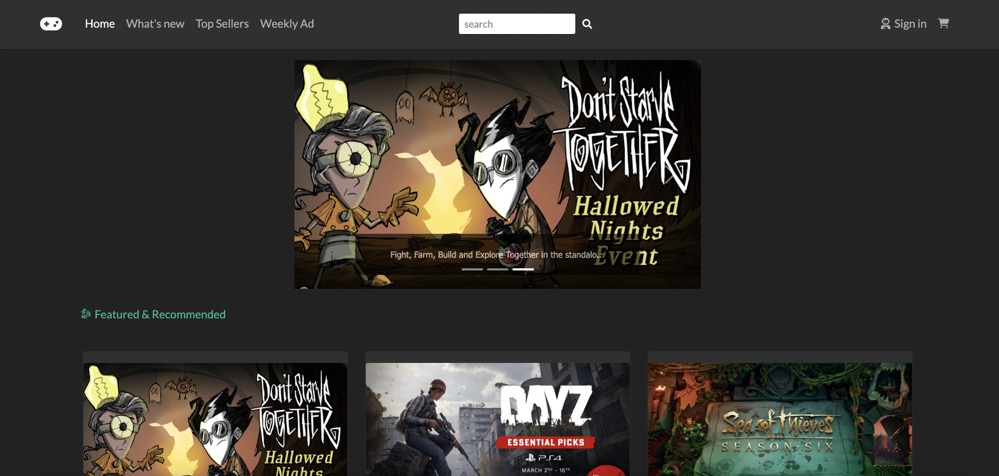
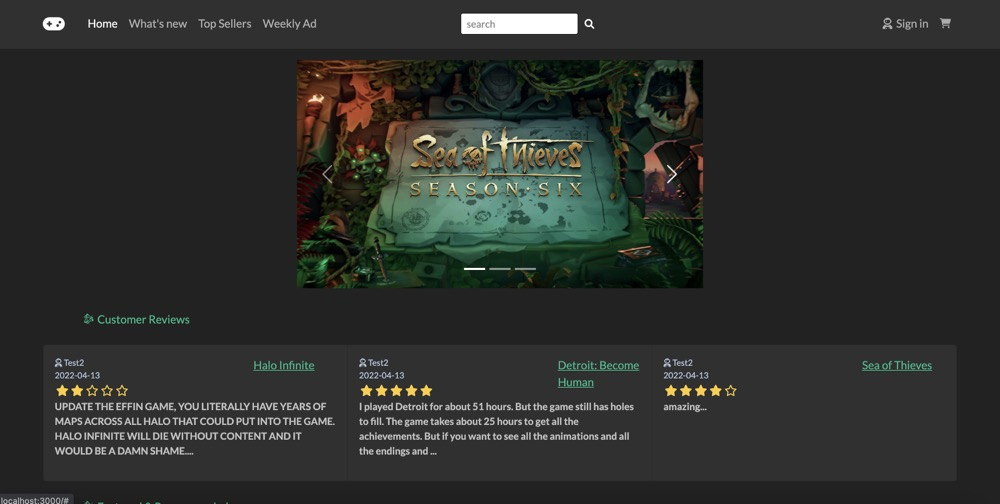
update readme for iter3

diff --git a/README.md b/README.md
@@ -4,6 +4,32 @@ FridayNight is an online store specialized in selling computer game virtual item
 
 🎮 This app is deployed on [Heroku](https://friday-night-test.herokuapp.com/)
 
+👉 Test Accounts
+1. Admin Account
+    - admin@test.com 123456
+2. User Accounts
+    - test1@test.com 123456
+    - test2@test.com 123456
+    - test3@test.com 123456
+    
+    ... Or create your own user account!
+3. PayPal Account
+    - sb-2wk8f15691593@personal.example.com .w<{yA2F
+
+## Iterations
+### Iteration 3
+**Division of labor**
+
+In the third week, the project is completed. Our application is done! The main functionality is working.
+
+- Features %Cuiting Huang
+
+Profile, Admin(TBD)
+
+- Features %Shi Shuai
+
+PayPal
+
 ### Iteration 2
 **Division of labor**
 In the second week, we start on developing whatever CRUD module that will contain the main functionality of our application. We will have an API capable of executing GET and POST methods are necessary for our app's core functionality and making whatever MongoDB queries that are necessary.
@@ -15,9 +41,6 @@ Cart, Login, Register, Profile
 - Features %Shi Shuai
 
 Search, Review, Checkout
-
-**test account** 
-test1@test.com 123456
 
 ### Iteration 1
 **Division of labor**
@@ -179,56 +202,61 @@ node backend/database/clear.js
 1. set up server
 2. connect frontend and backend to enable frontend to fetch hard coded products data from backend
 
-## Structure of website & current state of the application
-### 1. Homepage : Almost done. 
+## Structure of website
+### 1. Homepage 
 
-CURRENT : top sellers carousel, featured and recommended prodcuts list
-
-TODO : add conditional rendering for anonymous users and login users
+- top sellers carousel
+- conditional rendering : if the user is login, show the user's own reviews, otherwise, show the latest reviews
+- featured and recommended prodcuts list
 
 ![homepage](/frontend/public/images/screenshot1.jpg)
 
-### 2. Log in/Register page : Done. 
+### 2. Log in/Register page 
 
-CURRENT : allow users to register and login, force login when adding new review or proceeding to checkout
+- allow users to register and login
+- force login when adding new review or proceeding to checkout
 
 ![loginpage](/frontend/public/images/screenshot2.jpg)
 
-### 3. Profile page : Almost done. 
+### 3. Profile page
 
-CURRENT : allow users to see and update personal information
-
-TODO : add sections to show user orders and reviews
+- allow users to see and update personal information
+- allow users to see their orders
+- allow users to see their reviews
 
 ![profilepage](/frontend/public/images/screenshot3.jpg)
 
-### 4. Search/Search Results page : Done
+### 4. Search/Search Results page
 
-CURRENT : a summary of the search results and navigate to a detail page that shows a detailed view of the result
+- a summary of the search results and navigate to a detail page that shows a detailed view of the result
+- show alert message when no search has been executed and no results exist
 
 ![searchpage](/frontend/public/images/screenshot4.jpg)
 
-### 5. Details page: Done
+### 5. Details page
 
-CURRENT : allows users to view a detailed information of
-each product, add to cart, add reviews
+- detailed information of each product
+- add to cart
+- add reviews
 
 ![detailpage](/frontend/public/images/screenshot5.jpg)
 
-### 6. Orders : Almost Done
+### 6. Cart/Checkout/Order page
 
-CURRENT : allows users to place an order
-
-TODO : add PayPal API to implement payment feature
+- cart page : add items to cart, change qty of items, delete items
+- checkout page : place an order
+- order page : PayPal API to pay an order
 
 ![orderpage](/frontend/public/images/screenshot6.jpg)
+![orderpage](/frontend/public/images/screenshot7.jpg)
+![orderpage](/frontend/public/images/screenshot8.jpg)
 
 ## Environment Variable
 Create a file name .env then add:
 1. NODE_ENV = development
 2. MONGO_URI = < use your own mongodb atlas database >
 3. PORT = 5000
-4. PAYPAL_CLIENT_ID =
+4. PAYPAL_CLIENT_ID = < use your own paypal client id >
 5. JWT_SECRET = abc123
 
 ## Install dependencies
